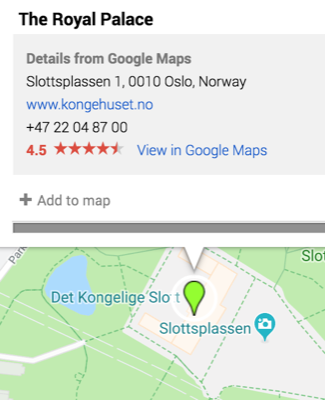
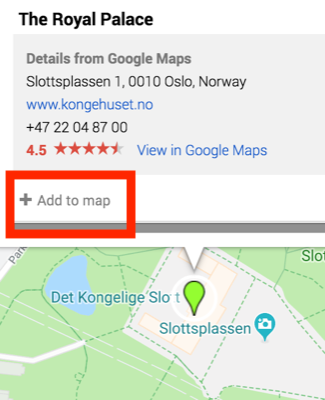
update README

Changed region(s): [[0.0, 0.42, 0.4308, 0.6]]

diff --git a/README.md b/README.md
@@ -16,7 +16,7 @@ This tutorial was made using Mac iOS High Sierra v 10.13.6. The following softwa
 - Optional: website. If using WordPress, a business account and iFrame plugin are required.
 
 ## Create a GitHub repository
-This tutorial will mostly use GitHub desktop and the online interface. All steps for creating new repositories, publishing, and pushing changes are possible in Terminal, too. See the [GitHub Cheat Sheet](https://education.github.com/git-cheat-sheet-education.pdf) for the commands.
+This tutorial uses git and GitHub mostly through the desktop and the online interface rather. All steps for creating new repositories, publishing, and pushing changes are possible in Terminal or a command line tool, too. See the [GitHub Cheat Sheet](https://education.github.com/git-cheat-sheet-education.pdf) for the commands.
 
 1. Go to [github.com](https://github.com/) and login. Create a new account if needed.
 
@@ -33,24 +33,26 @@ This tutorial will mostly use GitHub desktop and the online interface. All steps
 ## List places and draft text
 While I am traveling, I make sure to write down the names of the places that I visit: restaurants, sites, etc.
 
-1. In a spreadsheet (e.g., Google Sheets, Excel) create a column called **Place** and a column called **Description**
+1. Create a new spreadsheet using a software of choice. For example, Google Sheets, Excel, Calc, etc. If creating an spreasheet with a desktop software, create it in the git repository created in the previous section.
 
-2. In the Place column list the places to display on a map.
+2. In the new spreadsheet create a column titled **Place** and a column titled **Description**.
 
-3. Once the places are listed, in the adjacent column write the content to be displayed on the map when the place is clicked in the final map. For example, write a description of what you experienced at the place or more details describing it. This text will also be used later on to create the text description to post below the map.
+2. In the Place column list the places visited to display on the map.
 
-4. Additional columns can be added here or later on in another step. Some additional columns to consider are categories for place type (site, accommodation, food & drink, etc.) and images (only use an image column if **all places** have an associated image).
+3. Once the places are listed, in the adjacent column titled Description write the content that described your experience that you want to share about the place. This text will also be used later on to create the text description to post below the map. Limit the text to 2-3 **sentences** if at all possible.
+
+4. Additional columns can be added here now or later in another step. Some additional columns to consider are categories for place type (site, accommodation, food & drink, etc.) and images (only use an image column if **all places** have an associated image).
 
 ## Image processing
 ### Resize images
 These instructions are for Mac. The command may or may not be compatible with other operating systems.
 1. Load photos to computer. I take photos with an iPhone, so I use AirDrop.
 
-2. Create a **new folder** in the git repository called **images**.
+2. In the git repository for the project, create a **new folder** titled **images**.
 
 3. **Copy** photos into git repository folder titled images. Make sure to **COPY** the images or have a backup because these images will be resized.
 
-4. (Optional) Rename the photos to something simpler or more systematic.
+4. (Optional) Rename the photos to something simpler or more systematic to make it easier to link them with the corresponding places in a later step.
 
 5. Open **Terminal**. If you are not sure where Terminal is, type Terminal into Mac's spotlight.
 
@@ -61,7 +63,7 @@ These instructions are for Mac. The command may or may not be compatible with ot
   ```
   cd git/2019_oslo/images
   ```
-  - If you are uncertain of the relative path or how to use it, use the `cd` (change directory) command through to get to the images directory:
+  - If you are uncertain of the relative path or how to use it, use the `cd` (change directory) command through each subfolder to get to the images directory:
 
   ```
   cd git
@@ -69,14 +71,14 @@ These instructions are for Mac. The command may or may not be compatible with ot
   cd images
   ```
 
-7. Once Terminal shows that it is in the directory for the images for this project, use the following code to resize the **all .jpg images to 300 pixels**, or the desired size:
+7. Once Terminal shows that it is in the correct directory for the images for this project, use the following code to resize **all images to 300 pixels**, or the desired size:
 
   ```
   sips -Z 300 *.jpg
   ```
   - In the above code the **300 is the pixel width**--the height is auto-scaled. I do not suggest using anything larger than 300 pixels in the leaflet popup. These maps are not exactly the best platform for showcasing high-quality images. Include a link to a high-quality image if you would like.
-  - The * (asterisk) represents choosing **all files** with the file type **.jpg.** If your files are not .jpg, change it to **.tiff, .png, etc.**
-  - The code above is **case sensitive.** Meaning, sometimes I need to run this twice because the file type of some images are **.JPG** and not **.jpg**.
+  - The * (asterisk) represents choosing **all files** in the directory with the file type **.jpg.** - If your files are **not .jpg**, change it to **.tiff, .png, etc.**
+  - The code above is **case sensitive.** Meaning, sometimes I need to run this **twice** because the file type of some images are **.JPG** and not **.jpg**.
 
 ### Publish and push images to GitHub
 8. Open GitHub Desktop.
@@ -107,31 +109,30 @@ These instructions are for Mac. The command may or may not be compatible with ot
 
   ![Image is screenshot highlighting the Copy Image Address selection when an image is right-clicked in a GitHub online repository](images/copyPath.png "Copy image path")
 
-
-5. Open the spreadsheet with the place names and descriptions from the List places section.
+5. Open the spreadsheet with the place names and descriptions from the **List places... section**.
 
 6. Paste the image link into an empty column in the appropriate row where the image depicts the place listed and described. If using a new spreadsheet, place it  **A1**.
 
   ![Image is a screenshot of an image address pasted into the A1 cell of Google Sheets](images/pathSheets.png "Paste file path")
 
-7. Keep copying and pasting image addresses in a down the column or next to any place with an image for all remaining images.
-  - **Note**: There are many ways to get the image links into the spreadsheet. For example, you can also copy and paste this single image link down the spreadsheet and change just the image name in the link. If there are more than 20 images, finding an automated way to capture addresses may be helpful.
+7. Keep copying and pasting image addresses next to any place with a corresponding image for all remaining images.
+  - **Note**: There are many ways to get the image links into the spreadsheet. For example, you can also copy and paste a single image link down the spreadsheet and change just the image name in the link. If there are more than 20 images, finding an automated way to capture addresses may be helpful.
 
 
 8. In an empty cell in the rows with images, **create alt text** to be read by screen readers or to display when the image does not appear. Alt text should be descriptive of the image **not** the experience.
 
   ![Image is screenshot showing multiple image links in column A and alternative text in column B](images/altText.png "Create alt text column")
 
-9. In the next empty cell in the row type `=CONCATENATE` to activate the Concatenate formula.
+9. In the first empty cell in the next empty column type `=CONCATENATE` to activate the Concatenate formula.
 
-10. Within the Concatenate fomula parentheses () type: ``"<img src=+,A1,"+,"alt=+,B1,"+>"``. In the formula the plus sign (+) acts as a placeholder for quotation marks needed in the html.
+10. Within the Concatenate formula parentheses () type: ``"<img src=+",A1,"+ alt=+",B1,"+>"``. In the formula the plus sign (+) acts as a placeholder for quotation marks needed in the html. Quotations may or may not work with the Concatenate formula in your spreadsheet software, but it defeinitely does not work in Google Sheets.
 
 11. Copy this formula down the column.
 
-12. Copy the column and **paste as values** in the next empty column. In Google Sheets, use command + shift + v to paste as values, or right click/control click the first empty cell and choose Paste Special>Paste Values Only.
+12. Copy the column and **paste as values** in the next empty column. In Google Sheets, use **command + shift + v** to paste as values, or right click/control click the first empty cell and choose Paste Special>Paste Values Only.
 
 13. Use **find and replace** to replace the **+**, or special character used, as a placeholder with a quotation mark.
-  - Highlight the column where the formula was pasted as values only. This will make sure only this range is searched for find and replace.
+  - Highlight the column where the formula was pasted as **values only**. This will make sure only this range is searched for find and replace.
   - Press command or ctrl + F to open **find and replace** in Google Sheets.
   - In Google Sheets, press the three stacked dots at the right of the window for more options.
   - Type **+** in Find and **"** in Replace with. Select replace all. Then, press Done.
@@ -140,19 +141,29 @@ These instructions are for Mac. The command may or may not be compatible with ot
 
   ![Image is a screenshot highlighting how the find and replace works in the spreadsheet to replace all plus signs with quotation marks](images/findReplaceComplete.png "Quotations should replace plus sign or special characters")
 
-## Create geospatial data
+14. **Delete** the column with the Concatenate formula, NOT the column with the final image link.
 
-### Options for geocoding (getting coordinates)
-There are any number of ways to get coordinates and organize the geospatial data for the map. I usually start by creating a map with [mymaps.google.com](https://mymaps.google.com), which the following steps will demonstrate. With Google MyMaps you can easily create or import points, lines, and polygons.  If wanting to use raster data (e.g., georeferenced scanned maps), add that at a later point. These steps are only for creating and adding vector data.
+14. Now, there are a few options for how to integrate the image links:
+  - **Concatenate** the Description column and the column with the final image links. If doing this, add a html manual line break `<br>` in the concatenate formula. This will NOT show the line break immediately, but the break **should** appear in the final map.
+  - In the column with the final image links, add the column title **Image**.
 
-Sometimes the places I visit might not have a precise address or indexed location (e.g., campsites, sailing locations), so I really like being able to identify the location with the imagery.
+## Create geospatial data with Google MyMaps
 
-If you have **more than 20 places** to map that are likely to be on Google under known place names:
+### Google MyMaps
+There are any number of ways to get coordinates for the places in the spreadsheet ready to map. I usually start by creating a map with [mymaps.google.com](https://mymaps.google.com), which the following steps will demonstrate. These steps are only for creating and adding vector data (points, lines, polygons). If wanting to use raster data (e.g., georeferenced scanned maps), add that at a later point in QGIS.
+
+#### Why I use Google My Maps:
+- Sometimes the places I visit might not have a precise address or indexed location (e.g., campsites, sailing locations) or I am not familiar enough with the language to identify if the place that comes up in Google is correct, so I really like being able to identify or double check the location with the Google Earth imagery and streets.
+- I do find the Google search to be good for places that are known by Google. However, if the Google place is incorrect, it is easy to move the point manually.
+- With Google MyMaps you can easily create your own and import points, lines, and polygons.
+
+#### Alternative options
+If you have **more than 20 places** to map that are likely to be known places names in Google:
   - Use [Geocode by Awesome Table](https://support.awesome-table.com/hc/en-us/sections/360000012309-Geocode) on the Google Sheet used in the previous sections
-  - Download as a Comma Separated Values file (.csv)
-  - Either add it to MyMaps to check the geocoding or add it directly to QGIS. If anything appears incorrectly in MyMaps, manually move any that are in the incorrect place and/or add any places that did not appear at all.
+  - Download the sheet as a Comma Separated Values file (.csv)
+  - Either add it to MyMaps to check the geocoding or [import the CSV to QGIS](https://www.qgistutorials.com/en/docs/importing_spreadsheets_csv.html). If anything appears incorrectly in MyMaps, manually move any that are in the incorrect place and/or add any places that did not appear at all.
 
-If you are not using Google Sheets or if you do not want to use the Geocode by Awesome Table add-on, there are many manual and batch ways to get latitude and longitude:
+If you are not using Google Sheets or if you do not want to use the Geocode by Awesome Table add-on, there are many manual and batch ways to get latitude and longitude for place names:
   - [latlong.net](https://www.latlong.net/)
   - [batchgeo.com](https://batchgeo.com/)
   - [geocode.localfocus.nl](https://geocode.localfocus.nl/)
@@ -165,13 +176,16 @@ If you are not using Google Sheets or if you do not want to use the Geocode by A
 3. Search for a place traveled in the search bar by typing it in or copying it from the spreadsheet and pressing enter/return or clicking the magnifying glass button.
 
   ![Image is a screenshot of using the search in Google MyMaps](images/searchPlace.png "Search for a place")
+  - **Alternatively**, import the spreadsheet you have been working in and see if Google can identify the places.
+
 
 4. If the place appears in the correct place, click **+Add to map** in the bottom of the pop up box.
-If the place does **not appear**, zoom around the map to try to find the approximate location, and then, click the **balloon icon* below the search bar to **manually add** a marker.
+If the place does **not appear**, zoom around the map to try to find the approximate location, and then, click the **balloon icon below the search bar** to manually add a marker.
   - Repeat either process for all places.
   - Keep all like data (e.g., all points) in one layer.
-  - This method is recommended for fewer than 20 places.
+  - This method is recommended for fewer than 20 places, or as many places as you can stand to add manually.
 
+    ![Image shoes the Add to Map button in the pop up](images/addToMap.png "Add to Map")
 
 5. Next to the layer title, which is probably **Untitled layer**, click the **three stacked dots**, and then, click **Open data table.**
 
@@ -181,8 +195,8 @@ If the place does **not appear**, zoom around the map to try to find the approxi
   - This is when I like to copy the text description and image links from the Google Sheet into the table.
   - I usually add the image link in the description, but some may prefer to have it in its own column, especially if every place has an image.
   - When adding image links to the description column, **add a manual line break** in the cell between the text and link using **shift + enter/return**. Just using enter/return will select the next cell.
-  - Whether adding an image link from the spreadsheet or creating a new one here, the image link should look something like: `<img src="https://github.com/yourname/yourrep/img.jpg" alt="Don't forget to add descriptive alt text">`
-  - **Image links will appear as text NOT an image. The image will not appear until it is in Leaflet**
+  - Whether adding an image link from the spreadsheet or creating a new one here, the image link should look something like: `<img src="https://github.com/yourname/yourrep/img.jpg" alt="Don't forget to add descriptive alt text with the alt tag">`
+  - **Image links will appear as this html text NOT an image. The image will not appear until it is in the final Leaflet map**
   - If preferred, add categories for the places, such as site, lodging, food.
   - To capitalize or change the column titles, click the column title dropdown and choose **Duplicate**. In the popup, change the title to the desired word or phrase. **Single words are preferable**. Then, delete the old column.
 
@@ -346,10 +360,12 @@ KML files come with a lot of extra columns, and this carried over to the geojson
 9. Click the pencil icon in the top left again when finished. Make sure to save edits.
 
 ### Styling the map
-You may wish to style the points or categorize the data on the map. However, you can also leave the default point marker and change it to a leaflet style, which is demonstrated in a later step.
+You may wish to style the points or categorize the data on the map. If you have never styled or categorized vector data in QGIS before or need a refresher, QGIS Tutorials has a good [Vector Styling tutorial](https://www.qgistutorials.com/en/docs/basic_vector_styling.html).
+
+However, you can also leave the default point marker and change it to a leaflet style, which is demonstrated in a later step.
 
 ### Using qgis2web to export Leaflet code
-The point of using qgis2web instead of immediately starting with Leaflet is that qgis2web can output complex and correct javascript for pop-ups, legends, and other map options without needing to know the code. Then, it is very simple to go into qgis2web's file outputs to make customizations and additions for basemaps, markers, etc.
+The point of using qgis2web instead of immediately starting with Leaflet is that qgis2web can output complex and correct javascript for pop-ups, legends, and other map options without needing to know the code. Then, it is very simple to go into qgis2web's file outputs to make customizations and additions for basemaps, markers, more places, etc.
 
 1. From the top toolbar in QGIS, click **Web>qgis2web>Create web map**.
 
@@ -359,11 +375,11 @@ The point of using qgis2web instead of immediately starting with Leaflet is that
 
   ![Image is a screenshot showing the Leaflet option and Update preview button](images/updatePreview.png "update the map preview")
 
-3. Make sure the map appears in the right side of the Export to web map window. If nothing appears or only one layer appears, there are two simple possibilities: 1) Leaflet is not selected or 2) the projection is probably incorrect--return to that step.
+3. Make sure the map appears in the right side of the Export to web map window. If nothing appears or only one layer appears, there are two simple possibilities: 1) Leaflet is not selected or 2) the projection is probably incorrect--return to the Create Projected GeoJSON section.
 
   ![Image is a screenshot showing the map preview](images/mapPreview.png "View the map preview")
 
-4. Under Layers and Groups, change the Popup fields dropdowns. I prefer to use **header label**, but the other options are inline label and None. None means the field will appear but without a label.
+4. Under **Layers and Groups**, change the **Popup fields dropdowns**. I prefer to use **header label**, but the other options are inline label and None. **None** means the field **will appear** but without a label.
 
   ![Image is a screenshot showing the popup fields as header labels](images/labels.png "Update popup labels")
 
@@ -371,7 +387,7 @@ The point of using qgis2web instead of immediately starting with Leaflet is that
 
   ![Image is a screenshot highlighting the Add layers list option](images/legend.png "Add a legend")
 
-6. Make any other desired appearance changes. For example, and a layer search, measure tool, or have a custom map extent (how far someone can zoom in, out, and around). Click Update preview to see how any changes will look.
+6. Make any other desired appearance changes. For example, and a **layer search and/or address search** to make the map more **web accessible**, measure tool, or have a custom map extent (how far someone can zoom in, out, and around). Click Update preview to see how any changes will look.
 
 7. Click the **Export tab**.
 
@@ -394,7 +410,7 @@ The point of using qgis2web instead of immediately starting with Leaflet is that
 
   ![Image is a screenshot the git repository with the qgis2web export folder](images/exportLocation.png "Exported qgis2web file")
 
-2. Rename the very long qgis2web folder name to **webapp**. This rename will be important at a later step. It is not necessary to use webapp specifically, but name it something short and memorable.
+2. **Rename** the very long qgis2web folder name to **webapp**. This rename will be important for creating GitHub Pages at a later step. It is not necessary to use webapp specifically, but name it something short and memorable.
 
 3. Open the folder, which is now named **webapp** in this tutorial, and double click the **index.html** file. The map will open in the default web browser. If for some reason the map is not appearing, right click the file and select Open with to open it with another web browser (e.g., Firefox instead of Chrome).
 
@@ -403,12 +419,11 @@ The point of using qgis2web instead of immediately starting with Leaflet is that
   ![Image is a screenshot demonstrating how to open the file with Atom](images/openAtom.png "Open the html file with Atom")
 
     - As changes are made in the following steps, use command + S or File>Save to save edits.
-
     - Periodically refresh the browser window with the map that is open to see the changes.
-
     - If the for any reason the map disappears, troubleshoot the code in index.html file by using command + z to undo any previous changes (command + shift + z is redo). Check to see: was a colon or curly bracket accidentally deleted? If a variable was changed, were all variable names in the file updated and spelled correctly?
 
-4. Within the head tags (`<head>`), delete line 6, or the line which begins `meta name="viewport"...`.
+
+5. Within the head tags (`<head>`), delete line 6, or the line which begins `meta name="viewport"...`.
 
   ![Image is a screenshot demonstrating how to open the file with Atom](images/delete6.png "Open the html file with Atom")
 
@@ -437,17 +452,17 @@ overflow-y: scroll;
 ```
   ![Image is a screenshot showing where to paste the customized popup code in line 23 after the closed curly bracket](images/popupCode.png "Paste the customized popup code")
 
-8. (Optional) Delete the custom marker code to use the default Leaflet marker. Use command + F to find `marker`.
+8. (Optional) Use command + F to find `marker`.
 
   ![Image is a screenshot showing where to find the point markers](images/marker.png "Change the markers")
 
-10. Change `L.circleMarker` to `L.marker` to use the default Leaflet balloon markers instead of the one exported from QGIS. No need to delete any of the function `style_oslo_1_0`, Leaflet will now ignore it.
+9. (Optional) Change `L.circleMarker` to `L.marker` to use the default Leaflet balloon markers instead of the one exported from QGIS. No need to delete any of the function `style_oslo_1_0`, Leaflet will now ignore it.
 
-9. (Optional steps 10-13) Change the basemap to the Google Earth and Streets hybrid basemap.
+10. (Optional steps 10-15) Change the basemap to the Google Earth and Streets hybrid basemap.
 
-9. Use command + F to find `var layer_OSMStandard_0`.
+11. Use command + F to find `var layer_OSMStandard_0`. This text may vary if you used a different basemap from the start.
 
-10.  Delete the lines of code that are as follows:
+12.  Delete the lines of code that are as follows:
 
 ```    js    
 var layer_OSMStandard_0 = L.tileLayer('http://tile.openstreetmap.org/{z}/{x}/{y}.png', {
@@ -456,7 +471,7 @@ var layer_OSMStandard_0 = L.tileLayer('http://tile.openstreetmap.org/{z}/{x}/{y}
         });
         layer_OSMStandard_0;
 ```
-11. Replace the code with the following:
+13. Replace the code with the following:
 
 ``` js
 var googleHybrid = L.tileLayer('https://{s}.google.com/vt/lyrs=s,h&x={x}&y={y}&z={z}',{
@@ -467,18 +482,18 @@ var googleHybrid = L.tileLayer('https://{s}.google.com/vt/lyrs=s,h&x={x}&y={y}&z
 
 googleHybrid;
 ```
-12. Do a find and replace (command + F) for anything else that remains as `layer_OSMStandard_0` and replace it with `googleHybrid`
+14. Do a find and replace (command + F) for anything else that remains as `layer_OSMStandard_0` and replace it with `googleHybrid`
 
   ![Image is a screenshot showing the Atom find and replace window.](images/replaceVar.png "Replace with googleHybrid")
 
-7. Open **find and replace** (command + F) to find all instances of **http:** web addresses and replace it with **https:**. Only do this with web addresses and **NOT** any http instances within a variable name or tag). This is necessary so that the final map does not create an insecure connection on websites. If this is not done, the website the map is embedded will appear as insecure.
+15. **Make your map secure**: Open **find and replace** (command + F) to find all instances of **http:** web addresses and replace it with **https:**. Only do this with web addresses and **NOT** any http instances within a variable name or tag). This is necessary so that the final map does not create an insecure connection on websites. If this is not done, the website the map is embedded will appear as insecure.
 
   ![Image is a screenshot showing http web address](images/http.png "Change all http: to https:")
 
   ![Image is a screenshot showing the change to an https web address](images/https.png "Change all http: to https:")
 
 
-13. (Optional) Edit the legend to reflect the changes made such as the new basemap name and to remove the old marker image.
+16. (Optional) Edit the legend to reflect the changes made such as the new basemap name and to remove the old marker image.
 
 14. Use command + F to find the line that begins with `L.control.layers`.
 
@@ -496,7 +511,9 @@ googleHybrid;
 
   ![Image is a screenshot showing the image path to delete.](images/afterLegend.png "Edit the legend")
 
-16. Make sure to continue to check the updates in the browser. Do the changes appear? If the map is not appearing at all, try to troubleshoot the code in the index.html file: was a colon or curly bracket accidentally deleted? Were all variable names changed if choosing a new basemap?
+16. Make sure to continue to refresh the map in the browser to check the updates. Do the changes appear? If the map is not appearing at all, try to troubleshoot the code in the index.html file:
+  - Was a colon or curly bracket accidentally deleted?
+  - Were all variable names changed if choosing a new basemap?
 
 ### Push changes to GitHub
 1. Open GitHub Desktop.
@@ -533,21 +550,22 @@ googleHybrid;
 6. Now you can see the map at the branch's GitHub Pages site at YourGitHubAccount.github.io/gitRepositoryName/webapp.
   - YourGitHubAccount = replace with your GitHub account named
   - .github.io/ = keep as is
-  - gitRepositoryName = input the git repository name
-  - webapp = this is the file that originally had the long qgis2web title and was changed to webapp in the section **Editing qgis2web index.html file**
-  - For example, [havemaps.github.io/2019_oslo/webapp](https://havemaps.github.io/2019_oslo/webapp/#13/59.9096/10.7292)
+  - gitRepositoryName = input the git repository name such as 2019_oslo
+  - webapp = this is the folder that originally had the long qgis2web title and was changed to webapp in the section **Editing qgis2web index.html file**
+  - For example a gh-pages link would like [havemaps.github.io/2019_oslo/webapp](https://havemaps.github.io/2019_oslo/webapp/#13/59.9096/10.7292)
 
 ## Integrating with a website
 The simplest way to embed the Leaflet map into a website is with an iframe. This may or may not be possible depending on the content management system being used.  
 
 As of May 2019, iframe html tags `<iframe>` do not seem to be compatible with the most recent version of free, personal instances of WordPress. The best reason I could find was "due to security reasons"
 
-Iframe html tags (e.g., `<iframe src=" ">`) work with some university institutional instances of WordPress.
+Iframe html tags (e.g., `<iframe src=" ">`) work with some older versions and instances of WordPress.
 
 If you want to integrate the exported qgis2web map with a WordPress that does not allow the iframe html tags there are a couple ways to do it:
 
-1. A **business plan** is required to access the [iframe plugin](https://wordpress.org/plugins/iframe/).
+1. A **WordPress business plan** to access the [iframe plugin](https://wordpress.org/plugins/iframe/).
 2. A **hosting service** that allows you to upload html pages in the WordPress source code.
+3. Work with the **index.html** file from qgis2web start adding your own free text and html to create a functional page. Then, link to the gh-pages from the website.
 
 ### Using the iframe html tag
 This option may work with some self-hosted websites or institutionally hosted WordPress accounts.
@@ -585,9 +603,10 @@ This option may work with some self-hosted websites or institutionally hosted Wo
 
 ## Map text description
 
-Maps are great! However, they may not be accessible to all users for reasons ranging from low-internet connectivity, incompatability with a screenreader, vision impairment, and neurological differences. Below the map, include a thorough text description. A thorough text description aims to give an equivalent experience to all users.
+Maps are great! However, they may not be accessible to all users for reasons ranging from low-internet connectivity, incompatability with a screenreader, vision impairment, and neurological differences that make interpreting complex images difficult.
 
-For example, if the map is of places, make an effort to provide a narrative or list that describes the places as they are on the map.
-Starting in a spreadsheet helps with the text description process because it makes it easy to directly copy column information into the post editor. Make an effort to arrange the text descriptions in a way that will make narrative sense.
+Below the map, include a thorough text description. Drafting the text descriptions in a spreadsheet from the start helps with the text description process because it makes it easy to directly copy text into the post editor. If the places were not listed in any particular order, make an effort to arrange the text descriptions in a way that will make narrative sense.
+
+For example, if the map is of places, make an effort to provide a narrative or list that describes the places in the order they were visited. A thorough text description aims to give an equivalent experience to all users.
 
 Find live examples of map text descriptions on [my About page](https://havemapswilltravel.com/about) (click Expand text description) and all of my posts such as [Musandam 2019](https://havemapswilltravel.com/2019/05/15/20190404-musandam/).
